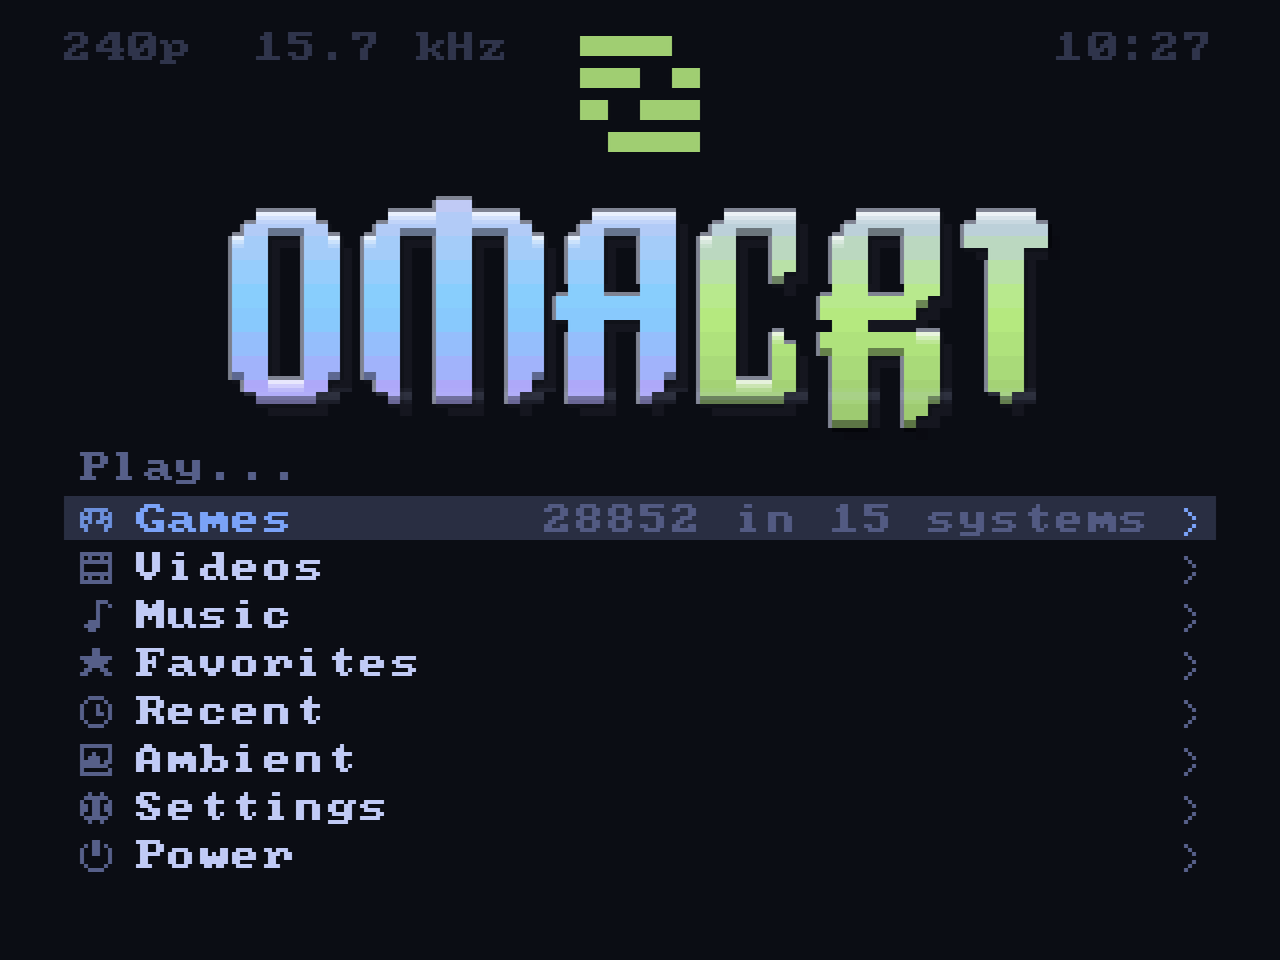
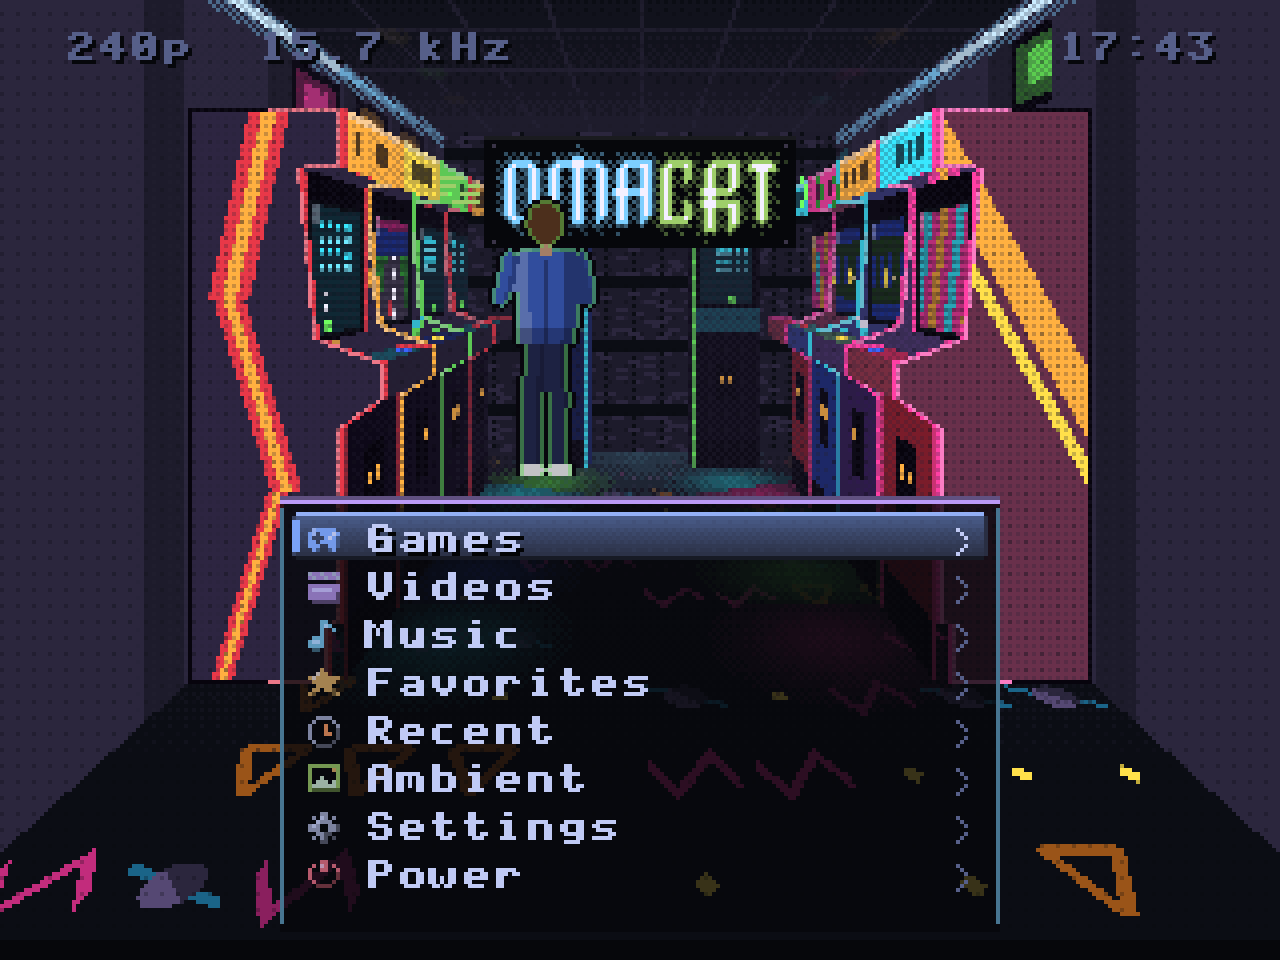
docs(screens): show the new look, and keep library counts out of them
The screenshots in the README and the launcher's documentation still
showed the old home, the flat console pictures and the boot without the
hall. They are rendered again from the headless launcher, and the art
gallery gets an animation of its own.

A picture for a public page should not describe the owner's library, and
the home rows and the systems stage print how many games, films and
favourites there are. OMACRT_SHOTS in the environment leaves those figures
out, so the pictures can be taken from a real configuration without
editing them afterwards.

diff --git a/shell/src/scene/mod.rs b/shell/src/scene/mod.rs
@@ -261,12 +261,19 @@ const AMBIENT_ITEMS: [(icons::Icon, &str, bool); 4] = [
     (icons::BRUSH, "Art gallery", true),
 ];
 
-/// The three ambient pages in a few words, for the home row that opens them.
-/// A test counts these against `AMBIENT_ITEMS`, so a fourth page cannot be
-/// added without saying so here.
+/// Whether this run is taking pictures for a public page (`OMACRT_SHOTS`
+/// set): then the screens leave out the figures that describe somebody's
+/// library, the counts of games, films and favourites.
+fn shots() -> bool {
+    std::env::var_os("OMACRT_SHOTS").is_some()
+}
+
 /// How long a painting stays on the wall before the next is hung.
 const GALLERY_TURN: f64 = 40.0;
 
+/// The three ambient pages in a few words, for the home row that opens them.
+/// A test counts these against `AMBIENT_ITEMS`, so a fourth page cannot be
+/// added without saying so here.
 const AMBIENT_SUMMARY: &str = "photos, weather, monitor, art";
 
 /// Settings submenu entries.

diff --git a/shell/src/scene/boot.rs b/shell/src/scene/boot.rs
@@ -607,6 +607,10 @@ impl Scene {
     /// rather than context.
     fn home_detail(&self, row: usize) -> Option<String> {
         let label = HOME.get(row).map(|(_, l, _)| *l)?;
+        // Pictures for a public page carry no figures from the library.
+        if shots() && matches!(label, "Games" | "Videos" | "Favorites" | "Recent") {
+            return None;
+        }
         match label {
             "Games" => {
                 let index = self.library.index.as_ref()?;

diff --git a/shell/src/scene/browse.rs b/shell/src/scene/browse.rs
@@ -2228,7 +2228,9 @@ impl Scene {
                     th.paper,
                     tones.shadow,
                 );
-                let games = if count == 1 {
+                let games = if shots() {
+                    String::new()
+                } else if count == 1 {
                     "1 game".to_string()
                 } else {
                     format!("{count} games")

diff --git a/shell/README.md b/shell/README.md
@@ -42,6 +42,10 @@ Options:
 | `--record DIR --record-secs N --script F`  | offline render: every frame as PPM plus `audio.wav`, inputs replayed from a script                                                                                     |
 | `--dump-audio DIR`                         | write every synthesized sound as a WAV and exit                                                                                                                        |
 
+`OMACRT_SHOTS=1` in the environment leaves the counts of games, films and
+favourites out of every screen, so a picture for a public page does not
+describe somebody's library.
+
 Controls: arrows or `hjkl` move, `Enter` or `Space` select (and skip the boot
 sequence while it plays), `Esc` or `Backspace` go back, `F` stars a game, `q`
 quits. Game controllers work through

diff --git a/docs/launcher.md b/docs/launcher.md
@@ -125,6 +125,16 @@ of `/proc` and `/sys`.
   <img src="screens/system.gif" width="560" alt="The system monitor: a bank of meters, one per processor, moving with the machine">
 </p>
 
+The last ambient page is a gallery of three paintings by René Magritte,
+redrawn in pixels as homages and hung in gilt frames under a spotlight. Each
+one moves a little: the apple in front of the face steps aside, a bird crosses
+the daylight sky over the lamp lit street, and one of the men of Golconde
+raises his hat.
+
+<p align="center">
+  <img src="screens/gallery.gif" width="560" alt="The art gallery: Le fils de l'homme, L'empire des lumières and Golconde, each in a gilt frame on a dark wall">
+</p>
+
 ## The library scans anything
 
 Point `omacrt library scan` at a disk and it works out what every file

diff --git a/README.md b/README.md
@@ -20,7 +20,7 @@ entry. Plain Hyprland uses the same launcher and command line.
 Written in Rust, licensed under MIT. No account or telemetry.
 
 <p align="center">
-  <img src="docs/screens/boot.gif" width="560" alt="The launcher booting on the tube">
+  <img src="docs/screens/boot.gif" width="560" alt="The launcher booting: the laser, the wordmark, and the arcade hall it lands in">
 </p>
 
 <p align="center">
